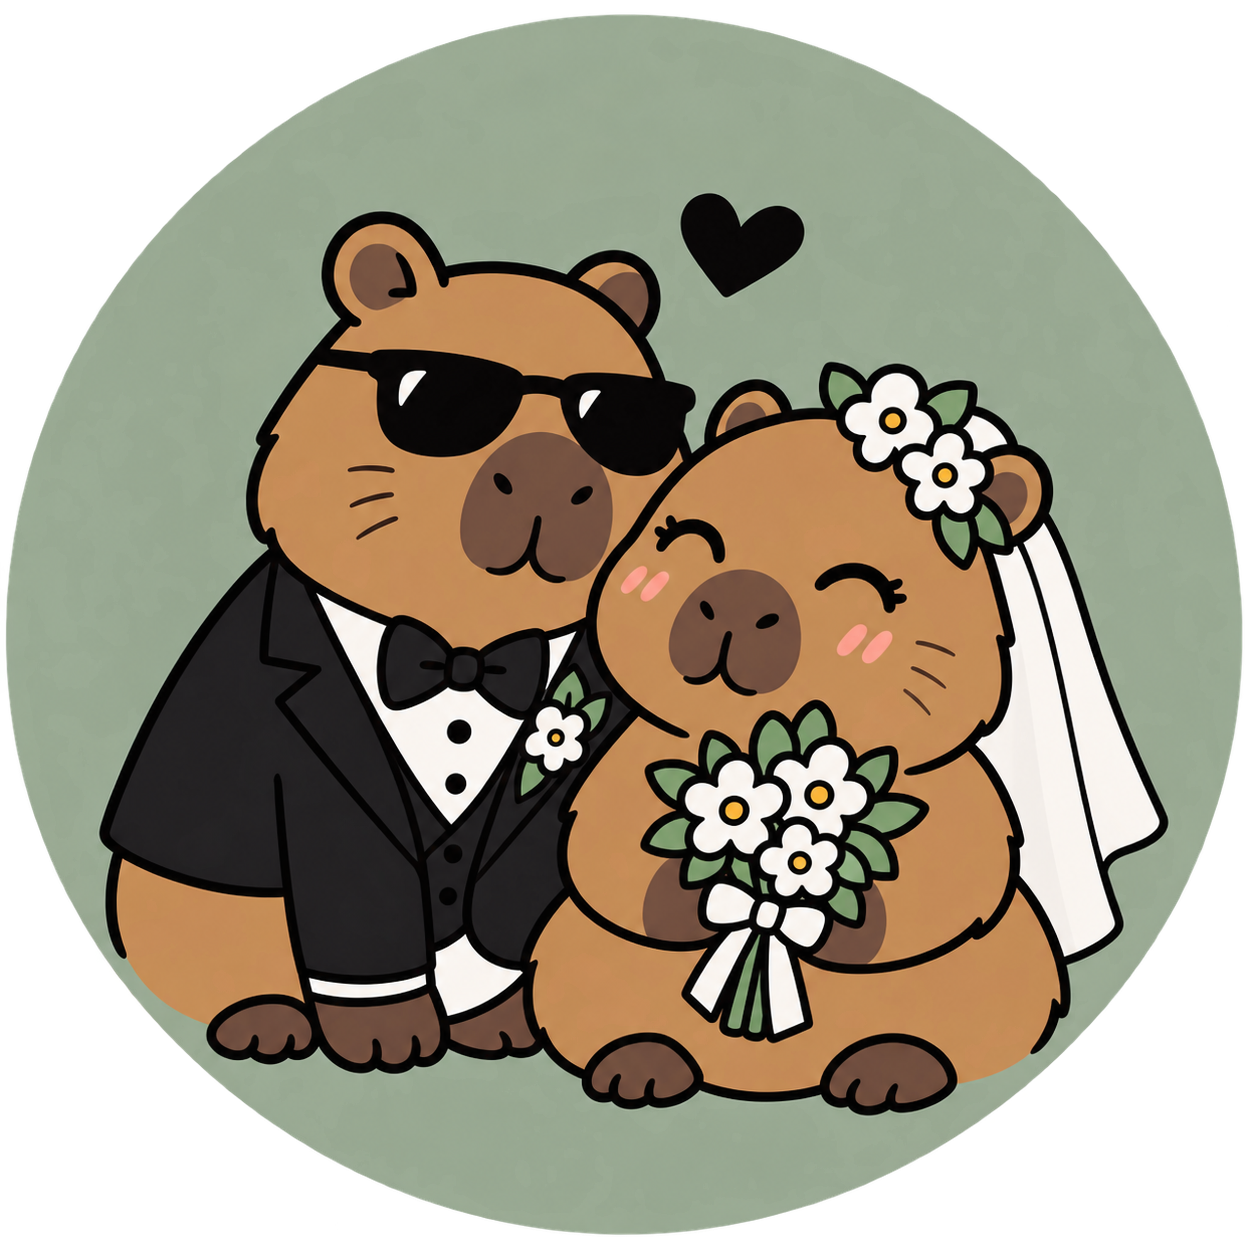
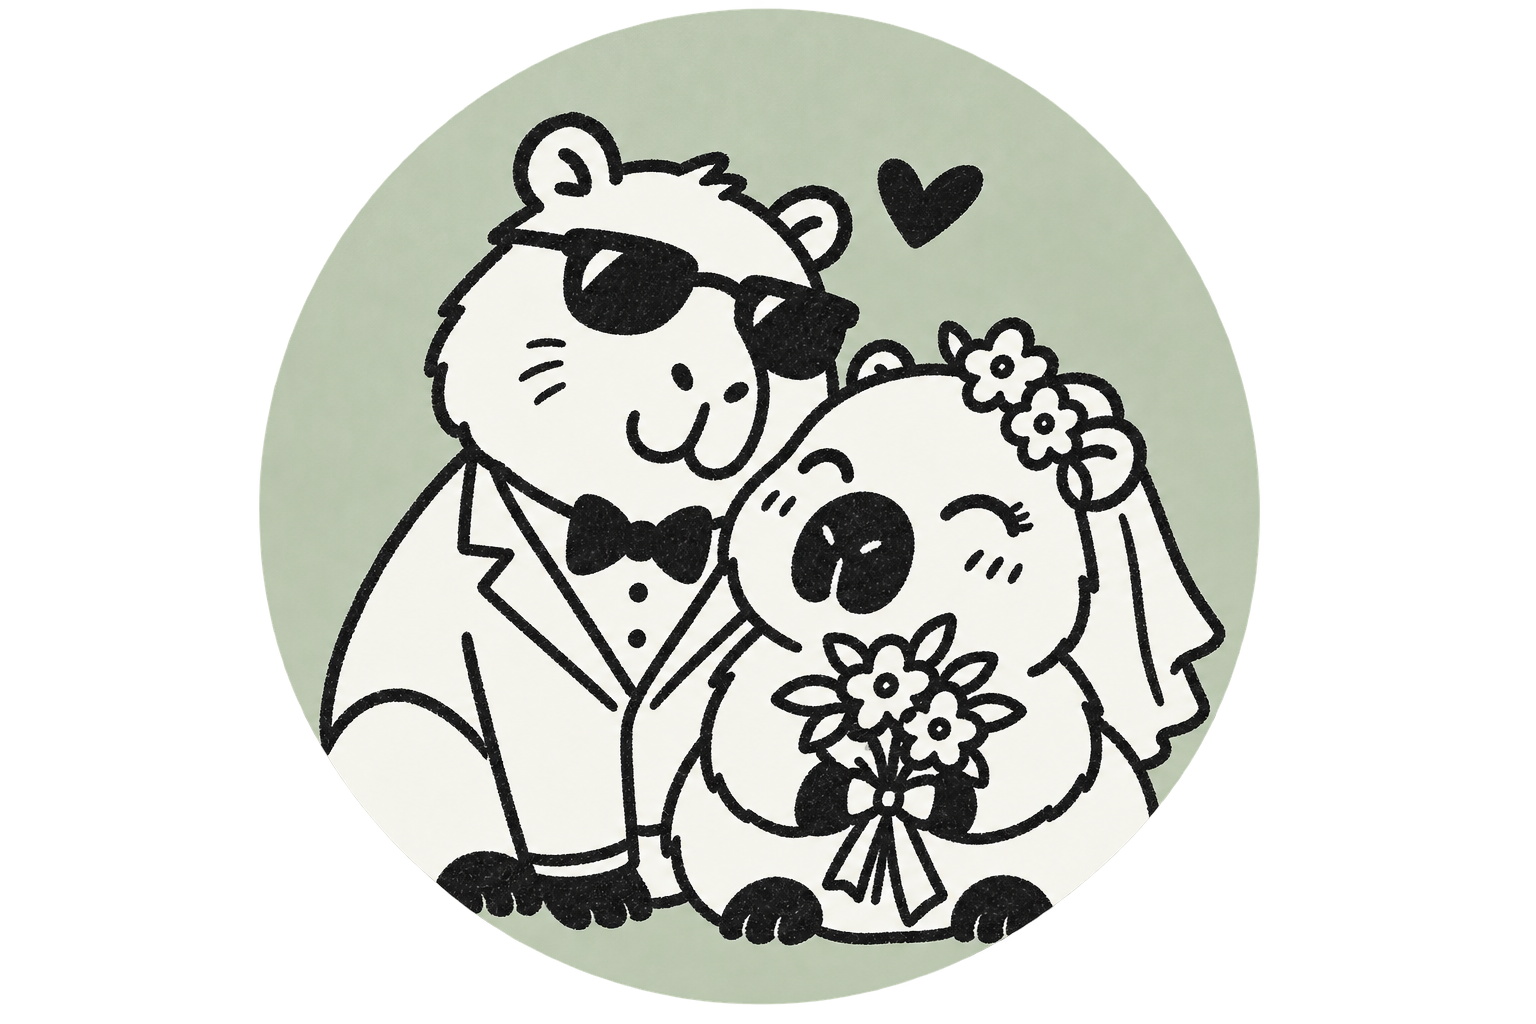
Atualiza ilustrações do casal para o novo estilo line-art e aumenta o ícone na navbar
Substitui bears/penguins/capybaras/koalas pela versão em traço
preto-e-branco; aumenta o ícone de "Os noivos" na barra de navegação
de 23 para 34px para se destacar mais dos ícones simples ao lado.

Claude-Session: https://claude.ai/code/session_01JipwE7jGHjiWuPe5ky1wUm

diff --git a/mobile-app/app/lib/shared/widgets/floating_bottom_nav.dart b/mobile-app/app/lib/shared/widgets/floating_bottom_nav.dart
@@ -148,8 +148,8 @@ class _WeddingNavTab extends StatelessWidget {
               opacity: active ? 1 : 0.55,
               child: ClipOval(
                 child: SizedBox(
-                  width: 23,
-                  height: 23,
+                  width: 34,
+                  height: 34,
                   child: Transform.scale(
                     scale: zoom,
                     child: Image.asset(assetPath, fit: BoxFit.cover),
